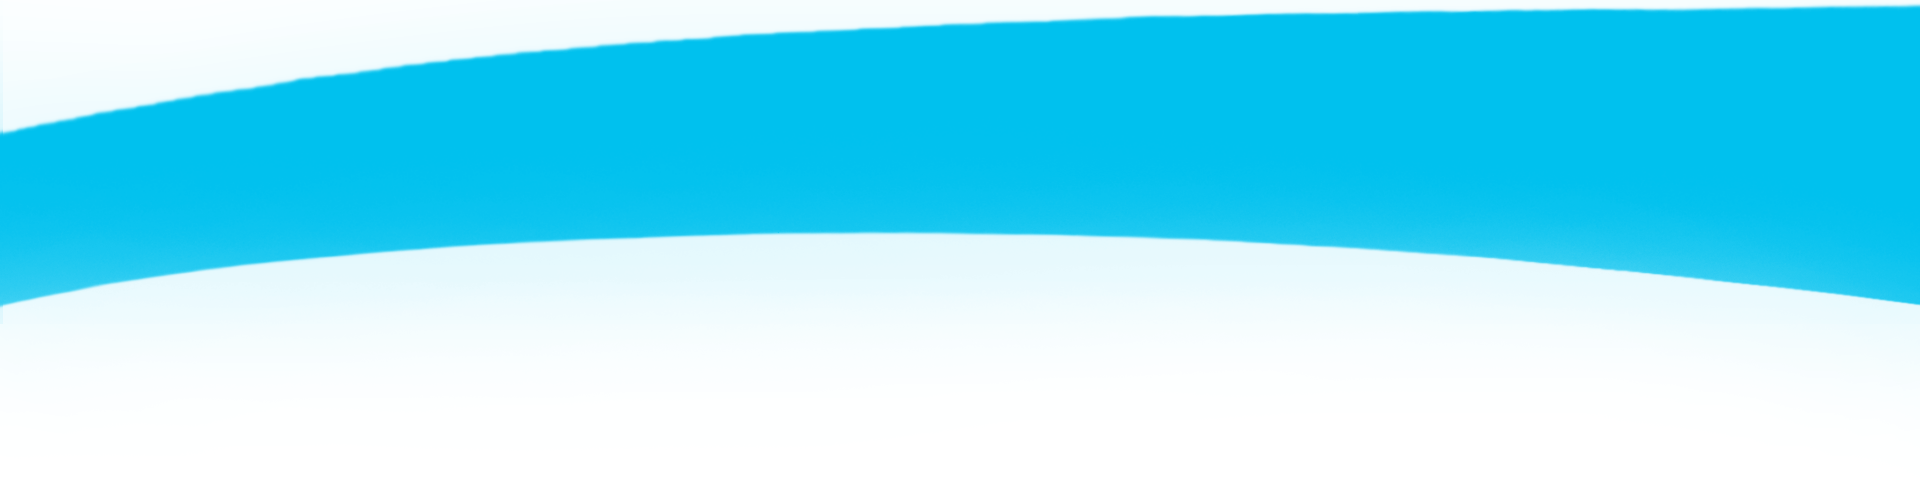
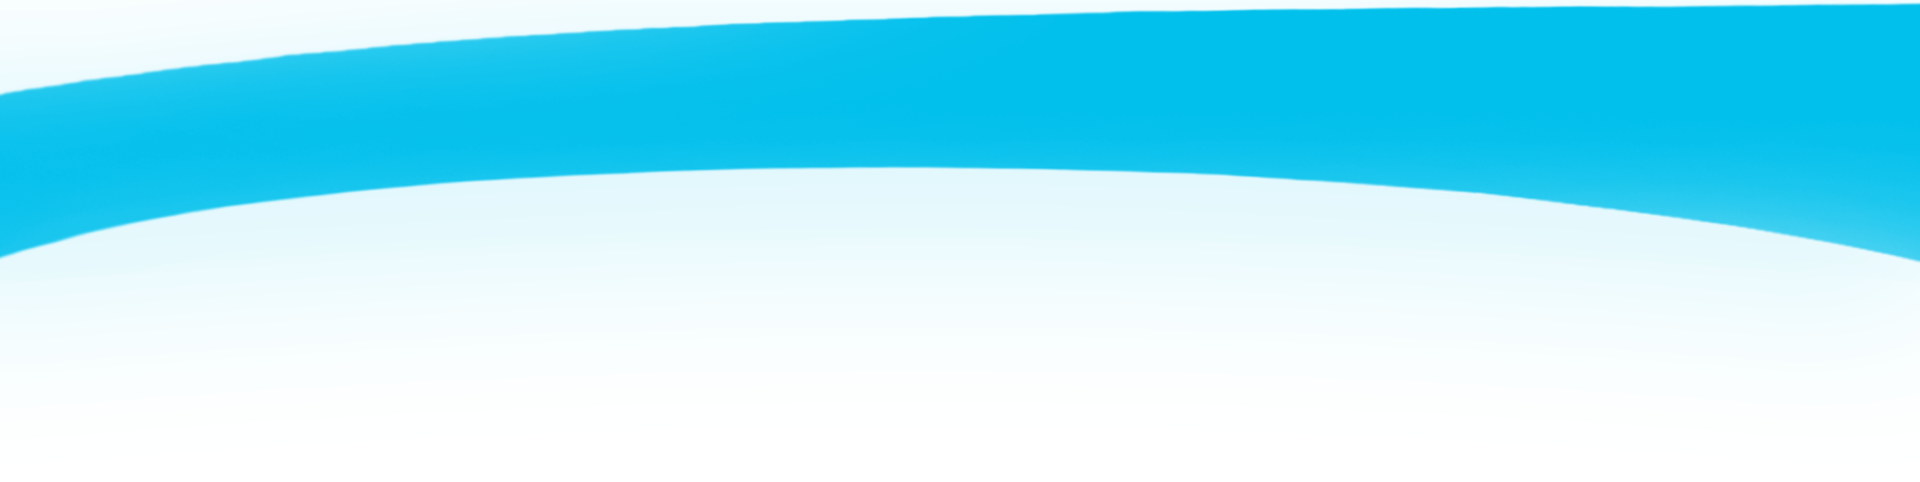
Formulario

Changed region(s): [[0.0, 0.3423, 1.0, 0.6535], [0.0, 0.0, 1.0, 0.2801]]

diff --git a/index.html b/index.html
@@ -185,13 +185,79 @@
         <!-- A procura  -->
             <section id="A_Procura">
                 <div class="container">
-
+                    <div class="a-procura--area">
+                        <div class="a-procura--titulos">
+                            <div class="a-procura--titulo">
+                                <h1>
+                                    Estamos a procura de</br>
+                                    alguém como VOCÊ!
+                                </h1>
+                            </div>
+                            <div class="a-prucura--subtitulo">
+                                <p>
+                                    Se você chegou até aqui é porque você busca uma</br>
+                                    empresa séria para investir. E nós buscamos </br>
+                                    alguém comprometido como  você!
+                                </p>
+                            </div>
+                        </div>
+                        <div class="a-procura--btn">
+                            <div class="btn-cta">
+                                <!--Botão WhatsApp-->
+                                <a href="https://contate.me/interesse_franquiahg">
+                                    <button class="botao--wa">
+                                        Quero ser franqueado
+                                    </button>
+                                </a>
+                            </div>
+                        </div>
+                    </div>
                 </div>
             </section>
 
         <!-- Futuro -->
-            <section id="Futuro">
-                <div class="container">
+            <section id="formulario">
+                <div class="formulario-area container">
+                    <div class="formulario-area--titulos">
+                        <div class="formulario-area--titulo">
+                            <p>
+                                Seja <span class="span">
+                                    dono do seu futuro!
+                                </span>
+                            </p>
+                        </div>
+                        <div class="formulario-area--subtitulo">
+                            <p>
+                                Chegou a hora de dar um passo rumo ao seu sucesso.</br>
+                                Converse com nossa equipe e entenda</br>
+                                melhor sobre o nosso negócio!
+                            </p>
+                        </div>
+                        <div class="formulario-area--formulario">
+                            <form action="">
+                                <label for="nome">Seu nome</label>
+                                <input type="text" class="input" name="nome" required >
+
+                                <label for="e-mail">Seu e-mail</label>
+                                <input type="text" class="input" required>
+
+                                <label for="whatsapp">Seu Whatsapp</label>
+                                <input type="tel" class="input" required placeholder="(xx) xxxxx-xxxx">
+
+                                <label for="cidade">Sua Cidade</label>
+                                <input type="text" class="input" required>
+
+                                <label for="invertimento">Capital disponível para invertir</label>
+                                <input type="" class="input" id="invertimento">
+                                <details>
+                                    <option value="20mil">Até 20 mil</option>
+                                    <option value="main20ml">Mais de 20 mil</option>
+                                </details>
+
+
+                            </form>
+                        </div>
+                    </div>
 
                 </div>
             </section>

diff --git a/css/global.css b/css/global.css
@@ -177,8 +177,8 @@
         header::after{
             content: '';
             position: absolute;
-            bottom: -60%;
-            background-image: url('../img/midias/Transição\ Header.png');
+            bottom: -70%;
+            background-image: url('../img/midias/Transição\ Header2.png');
             background-position: center;
             background-repeat: no-repeat;
             background-size: cover;
@@ -203,8 +203,10 @@
             background-repeat: no-repeat;
             background-size: cover;
             width: 100%;
-            height: 100vh;
+            height: 100%;
             margin-top: 5rem;
+            padding-top: 5rem;
+            padding-bottom: 10rem;
         }
         .historia-area{
             display: flex;
@@ -269,7 +271,8 @@
         #PQ_Investir{
             background-color: #01151a;
             width: 100%;
-            height: 1000px;
+            height: 100%;
+            padding-bottom: 5rem;
         }
         .pq-investir{
             display: flex;
@@ -277,7 +280,7 @@
             text-align: center;
         }
         .pq-investir--titulo{
-            margin-top: 20%;
+            margin-top: 15%;
             color: #FFFFFF;
             font-weight: 600;
         }
@@ -303,7 +306,7 @@
             margin-top: 5rem;
         }
         .item{
-            width: 18em;
+            width: 20em;
             height: 13em;
             border: #01c0ec solid 1px;
             border-radius: 10px;
@@ -326,6 +329,57 @@
         .item span{
             font-size: 1em;
         }
+
+
+    /* 
+    ---------------------
+    - Estamos a procura -
+    ---------------------
+    */
+
+        #A_Procura{
+            background-image: url(../img/midias/Section4.png);
+            width: 100%;
+            height: 100%;
+            padding: 3rem;
+        }
+        .a-procura--area{
+            display: flex;
+            justify-content: space-around;
+        }
+        .a-procura--titulos{
+            margin-left: 5rem;
+            color: #FFFFFF;
+        }
+
+        .a-procura--titulos h1{
+            font-size: 2.5em;
+        }
+        .a-procura--titulos p{
+            font-size: 1em;
+        }
+
+        .a-procura--btn button{
+            background-color:#01151a ;
+            width: 18em;
+            height: 3.5em;
+            font-size: 1em;
+        }
+
+    /* 
+    --------------
+    - Formulario - 
+    --------------
+    */
+
+        #formulario{
+            background-image: url(../img/midias/Section_formulario.png);
+            width: 100%;
+            height: 100%;
+        }
+
+
+        
 
 
 /* Fim Conteudo */
